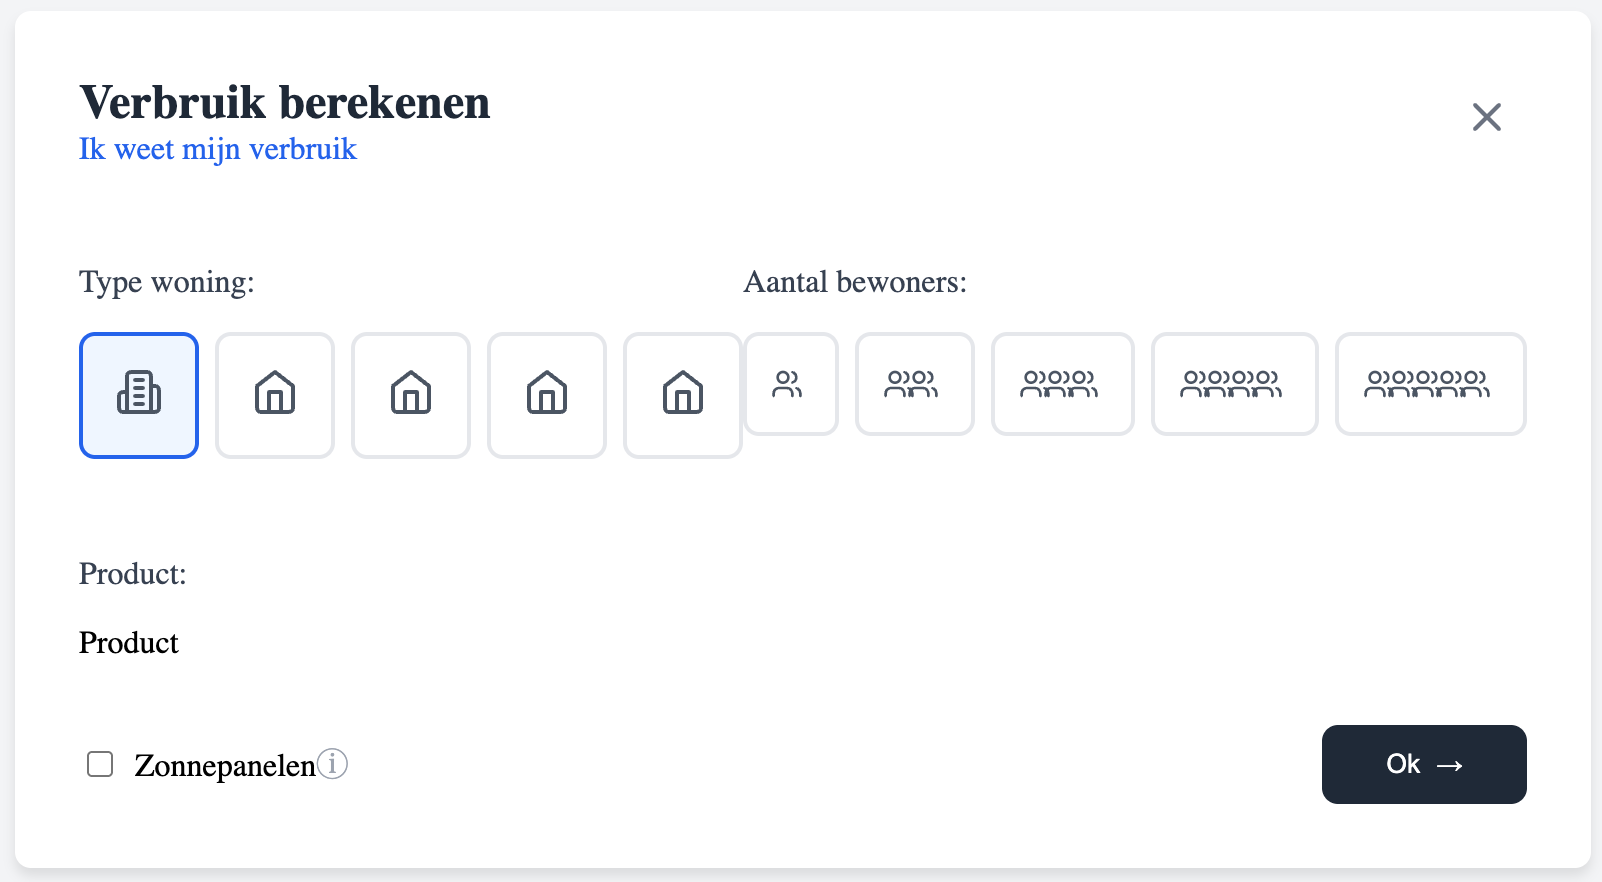
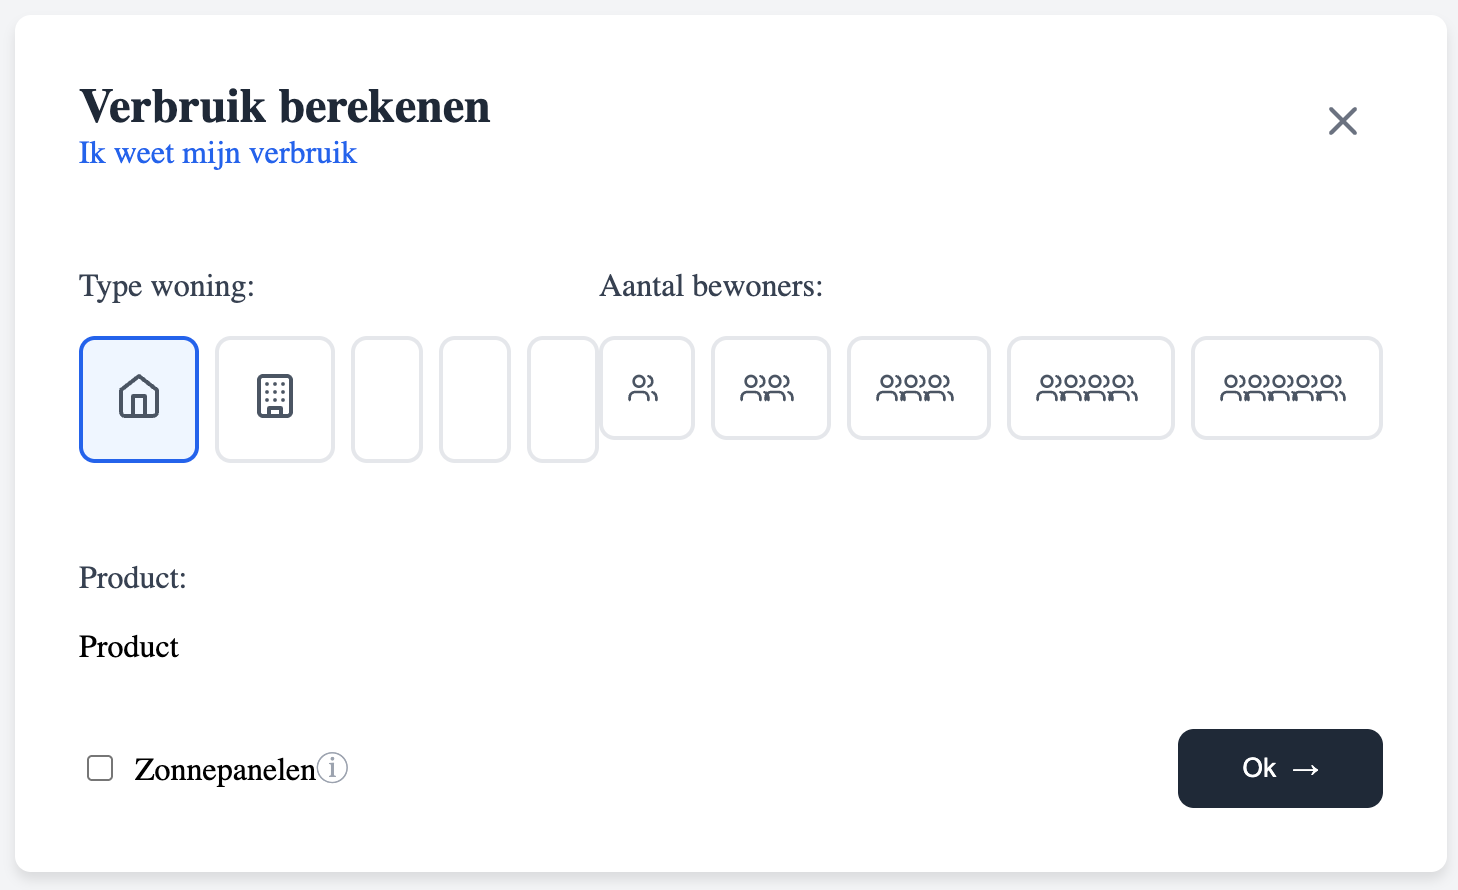
task(interview): adding some extra stuff for them to work on

diff --git a/web/react-example/src/components/HouseTypeSelector.tsx b/web/react-example/src/components/HouseTypeSelector.tsx
@@ -1,5 +1,6 @@
-import React from 'react';
-import { Building2, Home } from 'lucide-react';
+import React, { useEffect, useState } from 'react';
+import { icons, Home, Building, LucideIcon, Building2 } from 'lucide-react';
+import { getHouseTypes } from './HouseTypeSelector.service';
 import styles from './HouseTypeSelector.module.css';
 
 interface HouseTypeSelectorProps {
@@ -7,15 +8,38 @@ interface HouseTypeSelectorProps {
   onChange: (value: string) => void;
 }
 
-const houseTypes = [
-  { id: 'apartment', icon: Building2, label: 'Appartement' },
-  { id: 'house1', icon: Home, label: 'Huis Type 1' },
-  { id: 'house2', icon: Home, label: 'Huis Type 2' },
-  { id: 'house3', icon: Home, label: 'Huis Type 3' },
-  { id: 'house4', icon: Home, label: 'Huis Type 4' },
-];
+type HouseType = {
+  id: string;
+  label: string;
+  icon: LucideIcon;
+};
 
 export default function HouseTypeSelector({ value, onChange }: HouseTypeSelectorProps) {
+
+  const [houseTypes, setHouseTypes] = useState<HouseType[]>([]);
+
+  useEffect(() => {
+    const onLoad = async () => {
+      let types = await getHouseTypes();
+      types.forEach((type) => {
+        // two-person homes
+        if (type.id === 'apartment' || type.id === 'townhouse') {
+          if (type.id === 'apartment') {
+            type.icon = Home;
+          } else if (type.id === 'townhouse') {
+            type.icon = Building;
+          } else {
+            type.icon = Building2;
+          }
+        } else {
+          type.icon = icons['house-plus']
+        }
+      });
+      setHouseTypes(types as HouseType[]);
+    };
+    onLoad();
+  })
+
   return (
     <div className={styles.container}>
       {houseTypes.map((type) => {
@@ -30,7 +54,7 @@ export default function HouseTypeSelector({ value, onChange }: HouseTypeSelector
             className={`${styles.button} ${value === type.id ? styles.selected : ''}`}
             aria-selected={value === type.id}
           >
-            <Icon className={styles.icon} />
+            {Icon ? <Icon className={styles.icon} /> : null}
           </button>
         );
       })}

diff --git a/web/react-example/src/components/ConsumptionCalculator.tsx b/web/react-example/src/components/ConsumptionCalculator.tsx
@@ -10,6 +10,14 @@ export default function ConsumptionCalculator() {
   const [residents, setResidents] = useState(8);
   const [hasSolarPanels, setHasSolarPanels] = useState(false);
 
+  const handleResidentsSelectorChange = (incomingResidents) => {
+    if (incomingResidents > 0) {
+      if (incomingResidents < 10) {
+        setResidents(incomingResidents);
+      }
+    }
+  }
+
   return (
     <div className={styles.calculator}>
       <div className={styles.header}>
@@ -30,7 +38,7 @@ export default function ConsumptionCalculator() {
           </div>
           <div className={styles.section}>
             <p className={styles.label}>Aantal bewoners:</p>
-            <ResidentsSelector value={residents} onChange={setResidents} />
+            <ResidentsSelector value={residents} onChange={handleResidentsSelectorChange} />
           </div>
         </div>
 

diff --git a/web/react-example/src/components/HouseTypeSelector.service.ts b/web/react-example/src/components/HouseTypeSelector.service.ts
@@ -1,0 +1,16 @@
+const houseTypes = [
+  { id: 'apartment', label: 'Appartement' },
+  { id: 'townhouse', label: 'Tussenwoning' },
+  { id: 'corner-house', label: 'Hoekwoning' },
+  { id: 'two-under-one-roof', label: '2 onder 1 Kap' },
+  { id: 'detatched-house', label: 'Vrijstaand' },
+];
+
+/* We know this could return synchronously... Please leave it as an async Promise :) */
+export const getHouseTypes = async () => {
+  return new Promise((resolve) => {
+    setTimeout(() => {
+      resolve(houseTypes);
+    }, 1000);
+  });
+};

diff --git a/web/react-example/src/components/ResidentsSelector.tsx b/web/react-example/src/components/ResidentsSelector.tsx
@@ -22,7 +22,7 @@ export default function ResidentsSelector({ value, onChange }: ResidentsSelector
             {Array(number)
               .fill(null)
               .map((_, i) => (
-                <Users key={i} className={styles.icon} />
+                <Users className={styles.icon} />
               ))}
           </div>
         </button>

diff --git a/readme.md b/readme.md
@@ -7,9 +7,12 @@ Thanks for applying to Vandebron!! If you've made it this far we already think y
 ![Goal app](web/goal-app.png)
 
 - [ ] There are several areas you can focus on. Pick what you'd like to focus on and implement those. Please don't take more than 4 hours on this.
-  - [ ] Update styling of the app to make it look like the goal app above
+  - [ ] Update styling of the app to make it look like the goal app above. Note that you do not need to spend any time on the following
+      - Implement components other than what is visible in the goal app
+      - Using the correct icons
   - [ ] There are a few bugs in the app - feel free to fix any that you find
   - [ ] The test coverage isn't great... Can you improve it?
+  - [ ] Calculate the estimated usage based on the inputs provided - there are no strict rules here but generally the "bigger" the house, the higher your consumption, same for amount of people, etc. Should return a type of `{ electricity: number, gas?: number }`
   - [ ] Wouldn't it be great if this app were dockerized?
   - [ ] Anything else you think would be good
 - [ ] Send the forked repo as a PR
